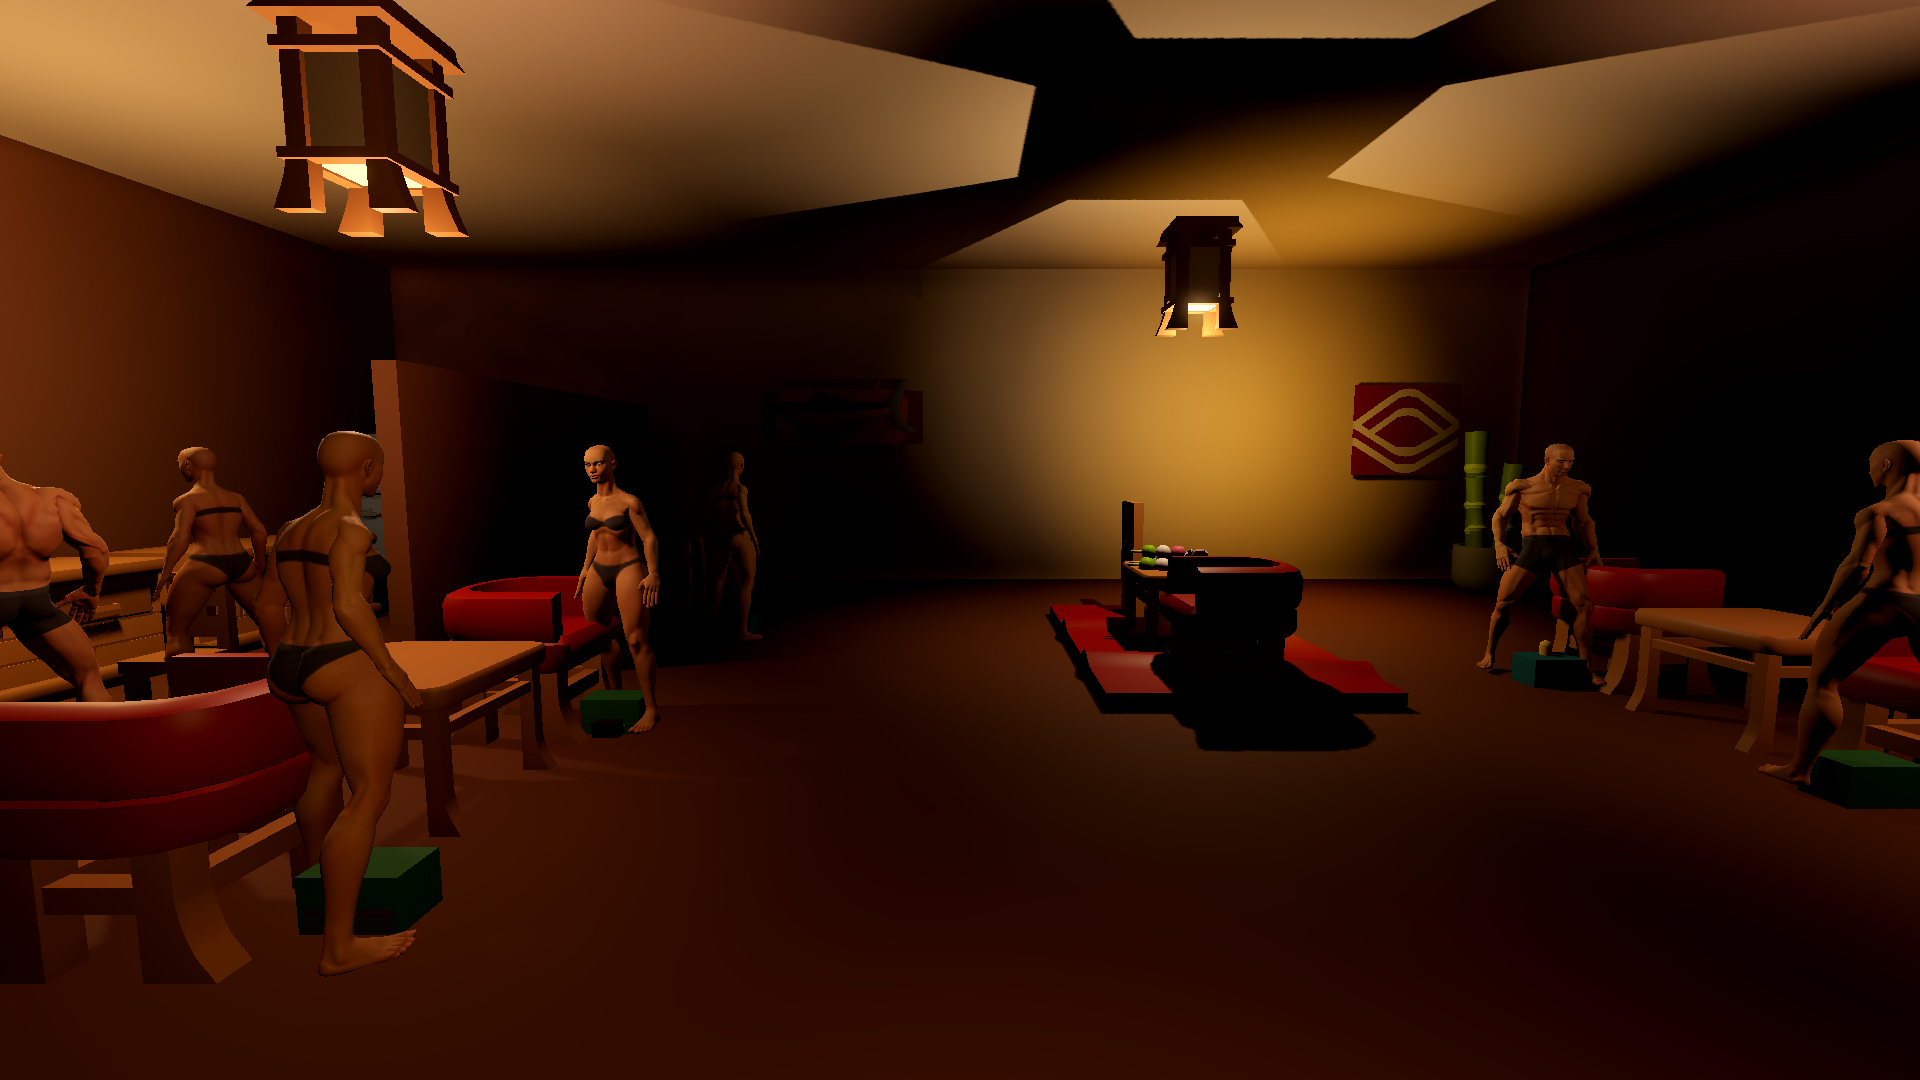
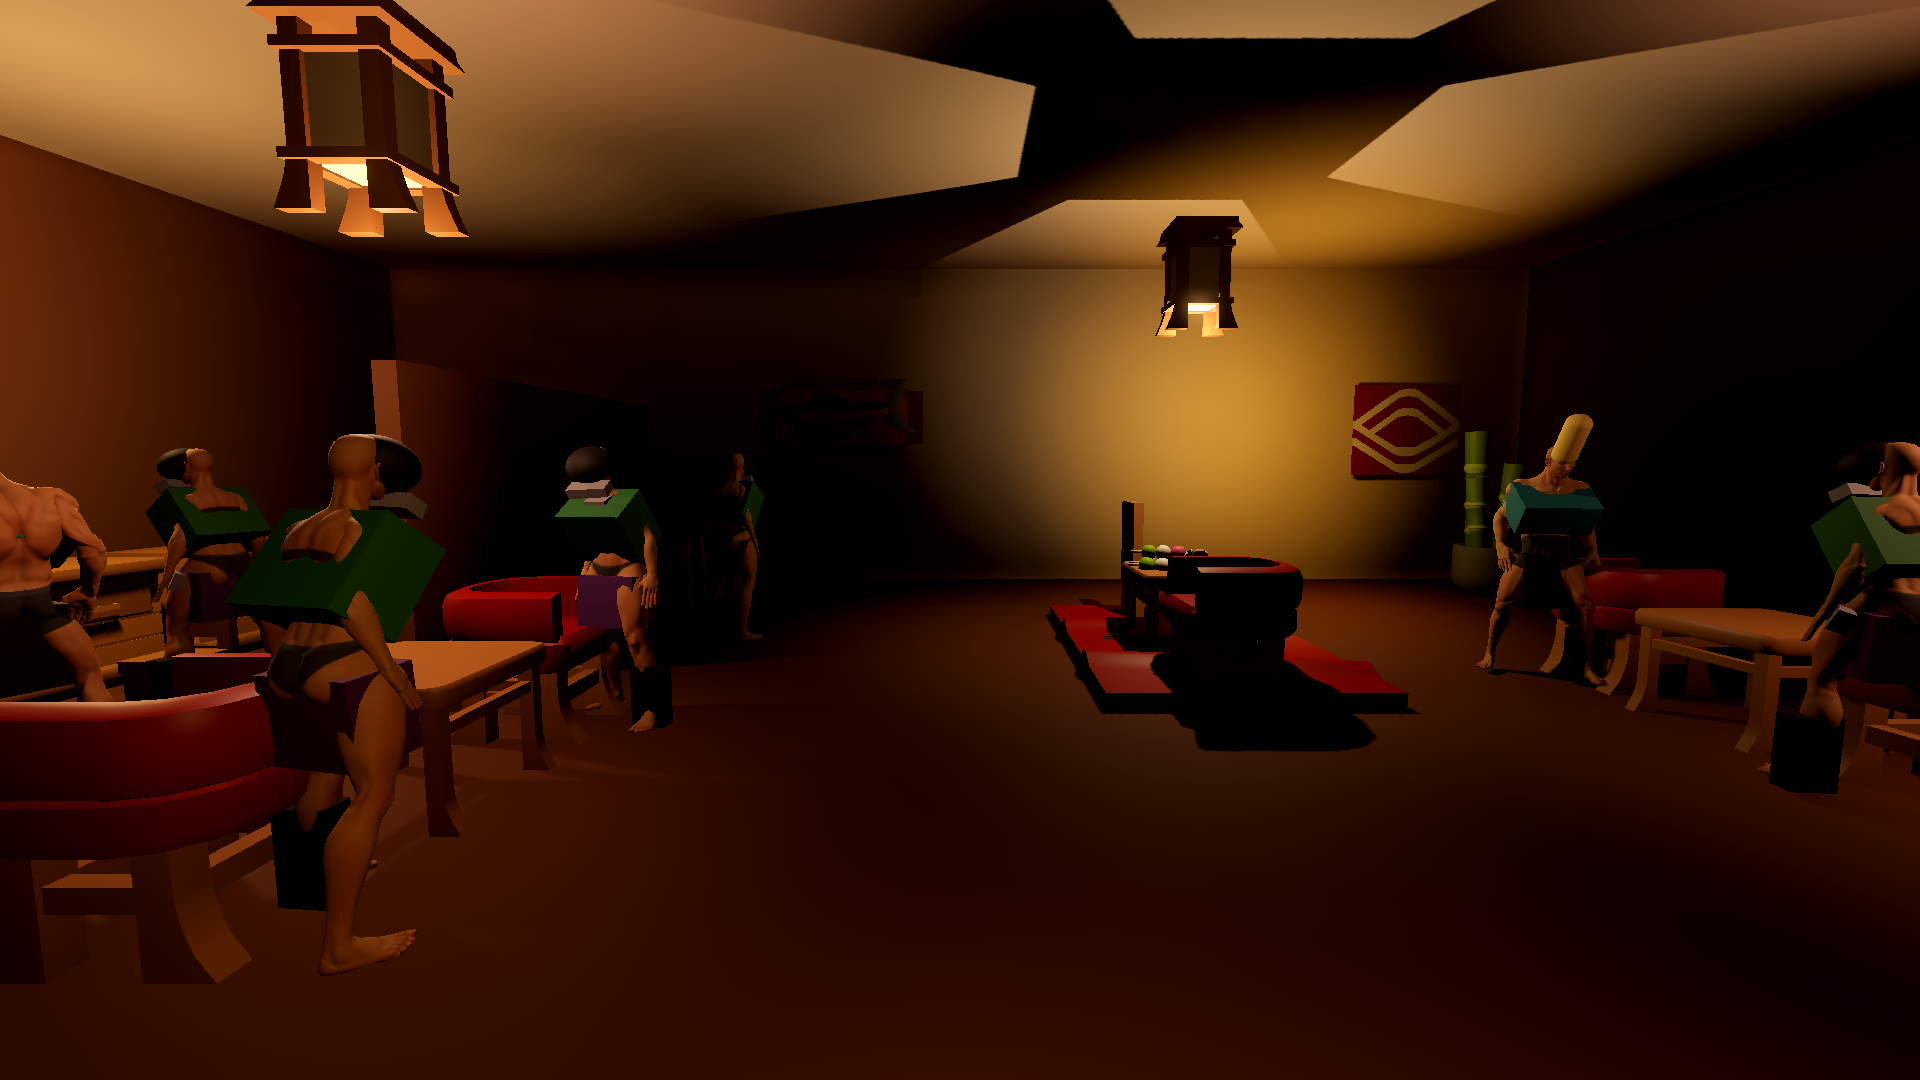
Refresh visual corrective review screenshots after modular bone-attachment fix.
Recheck confirms hair/tops/bottoms on body with readable variants; QA report set to READY.

diff --git a/docs/agent/qa/VISUAL_BOOTSTRAP_CORRECTIVE_QA.md b/docs/agent/qa/VISUAL_BOOTSTRAP_CORRECTIVE_QA.md
@@ -1,178 +1,125 @@
-# VISUAL BOOTSTRAP CORRECTIVE — Independent QA
+# VISUAL BOOTSTRAP CORRECTIVE — Independent QA (RECHECK)
 
-**Task ID:** VC-QA / VC-REVIEW  
+**Task ID:** VC-QA-RECHECK  
 **Date:** 2026-08-09  
 **Branch:** `visual-review/corrective-20260809`  
-**Base SHA:** `d9fa8326c8f48851f28aa407324e5599b3a4f459` (`Correct visual bootstrap: donor lighting, real interactables, single-base characters.`)  
+**Main SHA (fix):** `b59c3c9b6cf6c91a5b9d2bf567afc686306094f3` — *Fix modular character bone attachments so outfit placeholders sit on the body.*  
+**Review tip (pre-PNG commit):** merge of main into review containing `b59c3c9`  
+**Prior FAIL base:** `d9fa8326c8f48851f28aa407324e5599b3a4f459`  
 **Engine:** Godot 4.7.1 (`C:\Godot\Godot_v4.7.1-stable_win64.exe`), windowed 1920×1080  
-**QA worker:** df-qa-worker (independent; did not trust implementation evidence alone)
+**QA worker:** df-qa-worker (independent recheck; own captures + opened PNGs)
 
 ## Overall status
 
-**NOT READY**
+**READY**
 
-Critical player-visible failure: modular character presentation does not show readable appearance differences. Variant lineups and in-world NPCs render as identical underwear base meshes; accessory/prop meshes sit at feet as colored boxes. Automated presentation self-test previously logged PASS, but opened PNGs contradict “modular differences readable.”
+Prior critical blocker (modular parts piled at feet; variant lineups unreadable) is cleared after `b59c3c9` (`BoneAttachment` `external_skeleton` → `../Body/Armature/Skeleton3D`). Fresh 1920×1080 captures show hair/top/bottom placeholders on head/chest/hips for ≥6 male and ≥6 female profiles. Presentation self-test: **ALL PASS (902)**.
 
-Travel, interactables with CollisionShape3D, donor refs, and women_modular/PACK_019 runtime refs are PASS.
+Locations / travel / interactables / donor + women_modular ref checks from the prior VC-QA pass remain accepted (not re-failed). Non-blocking city polish and placeholder-art caveats remain.
 
 ## Criteria table
 
 | # | Criterion | Status | Evidence | Reproduction |
 |---|-----------|--------|----------|--------------|
-| 1 | Normal project / scene load for captures | **PASS** | All location+char capture scripts exit 0; 31 PNGs 1920×1080 | `Godot --path . --windowed --resolution 1920x1080 -s res://tmp/vc_qa/capture_locations.gd` |
-| 2 | Travel apartment ↔ city ↔ cafe | **PASS** | `verify_travel.log` travel rc=0 each hop | `... -s res://tmp/vc_qa/verify_travel_interactables.gd` |
-| 3 | Mine / lab / production unlock via `restore_stage` | **PASS** | STAGE_3 mine, STAGE_5+scientist lab, STAGE_6 production | same verify script |
-| 4 | Interactables exist + CollisionShape3D (not floating empty Areas) | **PASS** | DayAdvance, DateVenue, ProgressionSelfAssessment, cafe DateVenue, SalaryStation, FirstCloneMachine, CloneTerminal, GlobalExpansionTerminal all `shape=true` | verify log |
-| 5 | Control return / repeated cafe travel | **PASS** | repeated cafe travel PASS; STAGE_1 blocks production | verify log |
-| 6 | Save/load smoke | **PASS** *(WARN)* | MANUAL_1 save/load ok; engine WARN `saved player pose invalid; keeping spawn_default` | verify log |
-| 7 | Donor runtime refs = 0 | **PASS** | runtime + static scan 0 | verify log |
-| 8 | women_modular / PACK_019 runtime refs = 0 | **PASS** | scan 0 under world/characters/data/game/ui (+ assets excl. women_modular folder) | verify log |
-| 9 | No critical Failed to load / missing resources on travel | **PASS** | No `Failed to load` / missing resource during travel; only quit-time RID leak noise | `verify_travel_stdout.txt` |
-| 10 | Character presentation self-test log | **PASS** *(script)* / **FAIL** *(visual)* | `tmp/vc_rc/character_presentation.log`: `ALL PASS (691)`; opened variant PNGs show no modular clothing/hair differences | re-open `_review/visual_corrective/chars_*_variants.png` |
-| 11 | Cafe empty via QA fixture only (NpcSpawns hidden) | **PASS** | capture log `QA_FIXTURE hide NpcSpawns`; empty shots have no NPCs | capture_locations.log + opened cafe_empty_*.png |
-| 12 | Cafe production shows NPCs | **PASS** *(presence)* / **FAIL** *(presentation)* | NPCs present; all underwear base + green pedestals | cafe_production_*.png |
-| 13 | Screenshot set complete (exact names) | **PASS** | 31/31 PNGs published under `_review/visual_corrective/` | inventory below |
-| 14 | Modular variants ≥5 side-by-side, differences readable | **FAIL** | 6 male + 6 female profiles spawned; meshes look identical underwear; colored boxes at feet | chars_male_variants.png, chars_female_variants.png |
-| 15 | City visual quality (no void / obvious broken lights) | **WARNING** | Night street readable; greybox buildings; floating pink/red light slab on cafe approach; translucent blue volumes on street | city_*.png |
-| 16 | Edge: locked late location at STAGE_1 | **PASS** | `edge_locked_production_rc=1` | verify log |
+| 1 | Normal project / scene load for captures | **PASS** | Char + cafe production captures exit 0; PNGs 1920×1080 | `Godot ... -s res://tmp/vc_qa/capture_chars.gd` |
+| 2 | Travel apartment ↔ city ↔ cafe | **PASS** *(prior)* | Prior `verify_travel.log` travel rc=0 | prior VC-QA |
+| 3 | Mine / lab / production unlock via `restore_stage` | **PASS** *(prior)* | Prior verify stages | prior VC-QA |
+| 4 | Interactables + CollisionShape3D | **PASS** *(prior)* | Prior verify shape=true | prior VC-QA |
+| 5 | Control return / repeated cafe travel | **PASS** *(prior)* | Prior verify | prior VC-QA |
+| 6 | Save/load smoke | **PASS** *(WARN, prior)* | Prior MANUAL_1; pose invalid warning | prior VC-QA |
+| 7 | Donor runtime refs = 0 | **PASS** *(prior)* | Prior scan 0 | prior VC-QA |
+| 8 | women_modular / PACK_019 runtime refs = 0 | **PASS** *(prior)* | Prior scan 0 | prior VC-QA |
+| 9 | No critical Failed to load on travel | **PASS** *(prior)* | Prior stdout | prior VC-QA |
+| 10 | Character presentation self-test | **PASS** | `VC_CHARS_PRESENTATION_TEST: ALL PASS (902)`; `tmp/vc_qa/presentation_test_recheck.txt` | `Godot ... res://characters/test/character_presentation_test.tscn` |
+| 11 | Cafe empty via QA fixture only | **PASS** *(prior)* | Prior empty shots | prior VC-QA |
+| 12 | Cafe production shows NPCs with parts on body | **PASS** | Opened `cafe_production_*.png` — hair/tops/bottoms at head/torso/hips; NPCs present | recheck cafe capture |
+| 13 | Screenshot set complete (exact names) | **PASS** | 31/31 under `_review/visual_corrective/`; 10 char/cafe PNGs refreshed | inventory |
+| 14 | Modular variants ≥5 side-by-side, differences readable | **PASS** | Opened male/female variant PNGs: 6+6 distinct hair/top/bottom combos on body | `chars_male_variants.png`, `chars_female_variants.png` |
+| 15 | City visual quality | **WARNING** | Night street readable; greybox / black sky / prior floating light notes unchanged for non-refreshed city_*.png | prior city_*.png |
+| 16 | Edge: locked late location at STAGE_1 | **PASS** *(prior)* | Prior `edge_locked_production_rc=1` | prior VC-QA |
 
 ## Blocking issues
 
-1. **Character modular presentation unreadable (critical).** Studio and venue NPCs show bald underwear bases only. Variant lineups do not show distinct hair/top/bottom/shoes. Colored primitive boxes at feet indicate slot/prop attach failure visible to player. Undermines corrective commit’s “single-base characters” player result.
-2. **In-world NPC presentation matches the same failure** (city + cafe production), so it is not limited to the studio QA fixture.
+*None.* Previous critical modular-attachment FAIL is resolved on main `b59c3c9` and confirmed by recheck screenshots + presentation test.
 
 ## Non-blocking issues
 
-1. City still mixes detailed brick facades with large greybox blocks; night sky is pure black.
-2. `city_cafe_approach`: floating pink/red glowing rectangular light/sign.
-3. City street: large translucent blue volumes (likely transition debug/Area visuals).
-4. Save restore: `saved player pose invalid; keeping spawn_default` warning (load still succeeds).
-5. Capture script quit leaks RID/resources (engine teardown noise only; not travel-time failures).
-6. Cafe lighting is very high-contrast / dark corners (readable enough for venue review).
+1. Outfit slots still use **colored primitive placeholders** (not final clothing art) — intentional for modular POC; do not block readiness per recheck scope.
+2. Thin **black shoe/foot placeholder** at left foot is expected shoe-slot attach (not the old all-parts-at-feet pile).
+3. Animated cafe poses can make rigid placeholder boxes look slightly offset / clipping while still bone-attached at correct body height.
+4. City still mixes greybox blocks; night sky pure black; prior floating pink light on `city_cafe_approach` (not re-captured this recheck).
+5. Save restore warning: `saved player pose invalid; keeping spawn_default` (prior).
+6. Capture script quit RID/resource teardown noise only.
 
-## Screenshot inventory (opened PNG descriptions)
+## Screenshot inventory (opened PNG descriptions — recheck)
 
-Committed copies: `_review/visual_corrective/<name>.png` (source work dir `tmp/visual_corrective/`).
+Committed copies: `_review/visual_corrective/<name>.png` (work dir `tmp/visual_corrective/`).
 
-### CITY
+### CHARACTERS (refreshed 2026-08-09 recheck)
 
-| File | Opened content |
-|------|----------------|
-| `city_spawn_forward.png` | Night city street looking past lit brick storefront (pink awning), outdoor bench; bald underwear NPCs on green pedestals along street; greybox wall mid-frame. |
-| `city_main_street_left.png` | Looking down street between greybox shops with cyan/white wall panels; muscular male underwear NPC left; globe streetlamps; large translucent blue volume mid-street; brick towers far. |
-| `city_intersection.png` | Wide street view; female underwear NPC left; several male underwear NPCs right sidewalk; mint/tan storefronts; distant blue glow. |
-| `city_cafe_approach.png` | Brick cafe facade + outdoor table/stool; **floating pink/red glowing slab + vertical glow** in street; no NPCs in frame. |
+| File | Opened content / verdict |
+|------|--------------------------|
+| `chars_male_base.png` | Single male base; **tan cylinder hair on head**, **teal box on chest**, **dark apron on hips**, black shoe box at left foot. Parts ON body. |
+| `chars_female_base.png` | Single female base; **black sphere on head**, **green cube on chest**, **purple plane on hip**, black shoe box at left foot. Parts ON body. |
+| `chars_male_variants.png` | **Six** males side-by-side; distinct hair (tan cyl / flat brown / red slab / purple cubes / grey-blue) + tops (teal/blue/white/orange/red/grey) + bottoms (dark/tan/orange/white/grey/blue). **Differences readable. PASS.** |
+| `chars_female_variants.png` | **Six** females; distinct hair (black sphere / yellow hat-cyl / red hair mesh / purple box / brown slab) + tops (green/teal/grey/white/orange/navy) + bottoms (purple/black drop/blue/orange/white pill/tan). **Differences readable. PASS.** |
+| `chars_mixed_group.png` | Six mixed profiles; hair/tops/bottoms on body with distinct color combos. PASS. |
+| `chars_city_example.png` | Night city; NPCs with green torso / purple hip / head pieces on body (not piled at feet). PASS for attach. |
+| `chars_cafe_example.png` | Cafe NPCs with yellow hair cylinders / green tops / purple bottoms at body heights; black shoe boxes at feet. PASS for attach. |
 
-### ROOM (apartment)
+### CAFE PRODUCTION (refreshed)
 
-| File | Opened content |
-|------|----------------|
-| `room_spawn.png` | Compact low-poly studio: bed+blue curtains, round table with two plates, dresser; warm light, no void. |
-| `room_main_area.png` | Kitchenette (sink/stove) + bed + table + dresser; coherent apartment. |
-| `room_wide_a.png` | High angle: fridge/cabinets/sink/stove, bed, table, dresser; furniture grounded. |
-| `room_wide_b.png` | Wide corner including door, kitchen wall, bed/window; same donor-style room. |
+| File | Opened content / verdict |
+|------|--------------------------|
+| `cafe_production_entrance.png` | Multiple NPCs; yellow hair on heads, green tops on torsos, purple bottoms on hips. PASS. |
+| `cafe_production_center.png` | Male near dango table; hair/top at head/chest height during pose (rigid placeholders can look offset). Attach height OK vs prior feet pile. |
+| `cafe_production_date_view.png` | Date seating + NPCs; green torso boxes and distinct head pieces visible; dark venue. PASS for attach. |
 
-### CAFE VENUE_ONLY (NpcSpawns hidden via QA fixture)
+### Unchanged from prior VC-QA (not re-captured)
 
-| File | Opened content |
-|------|----------------|
-| `cafe_empty_entrance.png` | Dim Japanese cafe: red chairs, lanterns, bamboo, eye banner; **no NPCs**. |
-| `cafe_empty_center.png` | Table + dango on red runner, red armchair; empty of NPCs. |
-| `cafe_empty_date_view.png` | Date seating + cherry blossom + sushi sign; empty of NPCs. |
-| `cafe_empty_wide.png` | Elevated wide cafe interior; empty of NPCs. |
+CITY (`city_*`), ROOM (`room_*`), CAFE EMPTY (`cafe_empty_*`), MINE, LAB, LATE — prior PASS descriptions still apply; city WARNING polish remains.
 
-### CAFE PRODUCTION
+**Screenshot count:** 31 (10 refreshed this recheck)
 
-| File | Opened content |
-|------|----------------|
-| `cafe_production_entrance.png` | Same cafe entrance with **multiple underwear NPCs** (+ green pedestals). |
-| `cafe_production_center.png` | Center seating; muscular male underwear NPC right. |
-| `cafe_production_date_view.png` | Date view with several underwear NPCs + blossom tree. |
-
-### MINE
-
-| File | Opened content |
-|------|----------------|
-| `mine_wide.png` | Industrial low-poly hall, orange wall stripe, bed/machine left, blue console+stool, crates/gear; sci-fi pack look (matches `salary_mine.tscn` load in log). |
-| `mine_salary.png` | Close view: blue salary console, grey stool, large gear prop, orange stripe walls. |
-
-### LAB
-
-| File | Opened content |
-|------|----------------|
-| `lab_entrance.png` | Dark cyan lab aisle, white desks, glowing wall panels, crate, shelves; flat purple-grey band top of frame. |
-| `lab_wide.png` | Darker wide aisle between glowing partitions; chair+terminal far; dim. |
-| `lab_clone_core.png` | Cyan-lit crate + translucent wall pods + white desk/chair. |
-| `lab_terminal.png` | White curved desk+chair, glowing blue terminal, shelves; grounded. |
-
-### LATE (production_area)
-
-| File | Opened content |
-|------|----------------|
-| `late_entrance.png` | Purple/orange-stripe production hall; white/black global terminal center; crates; floating text. |
-| `late_wide.png` | Wide production view; central terminal; Cyrillic **«Охват Земли: 0»**; machinery/crates. |
-| `late_terminal.png` | Close terminal console + blank monitor; duplicate «Охват Земли: 0» labels. |
-
-### CHARACTERS
-
-| File | Opened content |
-|------|----------------|
-| `chars_male_base.png` | Single muscular bald male in dark briefs on grey studio floor; teal/yellow prop box at feet. |
-| `chars_female_base.png` | Single bald athletic female in black bikini underwear; green/black boxes at feet. |
-| `chars_male_variants.png` | **Six identical** underwear males in a row; only foot-box colors differ — **modular differences NOT readable**. |
-| `chars_female_variants.png` | **Six identical** underwear females in a row; colored platforms/boxes differ — **modular differences NOT readable**. |
-| `chars_mixed_group.png` | Six mixed male/female underwear bases; same presentation failure. |
-| `chars_city_example.png` | Night city sidewalk; underwear NPCs on green pedestals near streetlamps/brick bg. |
-| `chars_cafe_example.png` | Cafe interior with multiple underwear NPCs among red chairs/tables. |
-
-**Screenshot count:** 31
-
-## Engine logs / journals
+## Engine logs / journals (recheck)
 
 | Path | Role |
 |------|------|
-| `tmp/vc_qa/capture_locations.log` | Location capture journal |
-| `tmp/vc_qa/capture_locations_stdout.txt` | Raw Godot stdout (locations) |
+| `tmp/vc_qa/capture_chars_stdout_recheck.txt` | Raw Godot stdout (chars recheck) |
 | `tmp/vc_qa/capture_chars.log` | Character capture journal |
-| `tmp/vc_qa/capture_chars_stdout.txt` | Raw Godot stdout (chars) |
-| `tmp/vc_qa/verify_travel.log` | Travel/interactable/refs journal |
-| `tmp/vc_qa/verify_travel_stdout.txt` | Raw Godot stdout (verify) |
-| `tmp/vc_qa/verify_journal.txt` | Same verify lines |
-| `tmp/vc_rc/character_presentation.log` | Prior presentation self-test: `ALL PASS (691)` |
+| `tmp/vc_qa/capture_cafe_production_stdout.txt` | Raw Godot stdout (cafe production) |
+| `tmp/vc_qa/capture_cafe_production.log` | Cafe production journal |
+| `tmp/vc_qa/presentation_test_recheck.txt` | Presentation self-test: `ALL PASS (902)` |
+| `docs/agent/qa/evidence/vc_chars_fix/after_lineup_variants.png` | Presentation-test lineup evidence |
+| `docs/agent/qa/evidence/vc_chars_fix/after_slot_heights.json` | Slot height metrics |
 
-## Refs checks
-
-| Check | Result |
-|-------|--------|
-| Runtime `scene_file_path` donor leaks on loaded locations | **0** |
-| Static production text donor (`date_factory_legacy`, `../date_factory`) | **0** |
-| women_modular / PACK_019 runtime refs (world/characters/data/game/ui + assets excl. pack folder) | **0** |
-
-## Commands executed
+## Commands executed (recheck)
 
 ```text
-git fetch; git checkout -B visual-review/corrective-20260809 d9fa832
-C:\Godot\Godot_v4.7.1-stable_win64.exe --path . --windowed --resolution 1920x1080 -s res://tmp/vc_qa/capture_locations.gd
+git checkout main; git pull origin main
+# main HEAD = b59c3c9
+git stash push -u -m "VC-QA-RECHECK stash unrelated WIP..."
+git checkout visual-review/corrective-20260809
+git merge main -m "Merge main into visual-review/corrective-20260809 for character modular fix recheck."
 C:\Godot\Godot_v4.7.1-stable_win64.exe --path . --windowed --resolution 1920x1080 -s res://tmp/vc_qa/capture_chars.gd
-C:\Godot\Godot_v4.7.1-stable_win64.exe --path . --windowed --resolution 1920x1080 -s res://tmp/vc_qa/verify_travel_interactables.gd
-# copy PNGs → _review/visual_corrective/
+C:\Godot\Godot_v4.7.1-stable_win64.exe --path . --windowed --resolution 1920x1080 -s res://tmp/vc_qa/capture_cafe_production.gd
+C:\Godot\Godot_v4.7.1-stable_win64.exe --path . --windowed --resolution 1920x1080 res://characters/test/character_presentation_test.tscn
+# copy refreshed PNGs → _review/visual_corrective/
 ```
 
 ## Unmet criteria
 
-- Readable modular differences for `chars_male_variants` / `chars_female_variants` (≥5 profiles side-by-side with visible hair/clothing variance).
-- Production NPC presentation in city/cafe matching intended modular outfits (not underwear + foot props).
-- (Non-blocking) city_cafe_approach floating light; city greybox + blue volume polish.
+*None blocking.* Remaining items are non-blocking polish (city greybox/lights, placeholder clothing art, save pose warning).
 
 ## Recommendation
 
-**NOT READY**
+**READY**
 
-Do not treat the corrective visual bootstrap as player-ready until character slot visuals are fixed and re-captured. Locations, travel, interactable collision, and zero donor/women_modular runtime refs are in good shape and can stay; character presentation is the blocker.
+Character modular bone-attachment fix on main `b59c3c9` is verified by independent re-capture and opened PNGs. Review branch screenshots under `_review/visual_corrective/` updated for chars_* and cafe_production_*. Prior location/travel/ref PASS results stand.
 
-## Reproduction steps (blocker)
+## Reproduction steps (verify fix)
 
-1. Checkout `d9fa832` / branch `visual-review/corrective-20260809`.
-2. Run `capture_chars.gd` as above (or open `_review/visual_corrective/chars_male_variants.png` and `chars_female_variants.png`).
-3. Observe six near-identical underwear bodies; colored boxes at feet; no distinct modular outfits.
-4. Open `cafe_production_entrance.png` / `chars_city_example.png` — same underwear NPCs in venues.
+1. Checkout `visual-review/corrective-20260809` (after recheck push) or main `b59c3c9`.
+2. Open `_review/visual_corrective/chars_male_variants.png` and `chars_female_variants.png`.
+3. Confirm ≥5 profiles with hair on head, tops on chest, bottoms on hips; color/shape differences readable.
+4. Run presentation test scene → expect `VC_CHARS_PRESENTATION_TEST: ALL PASS (902)`.
